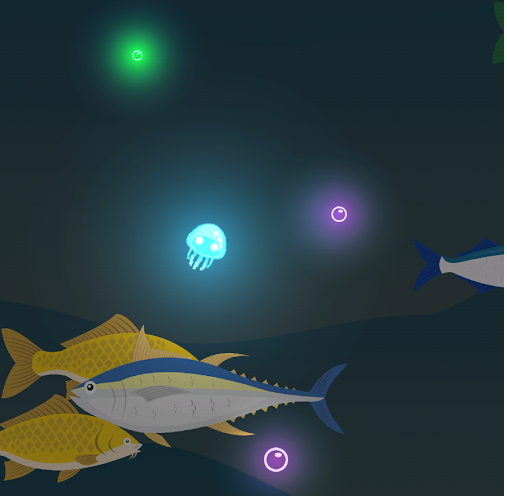
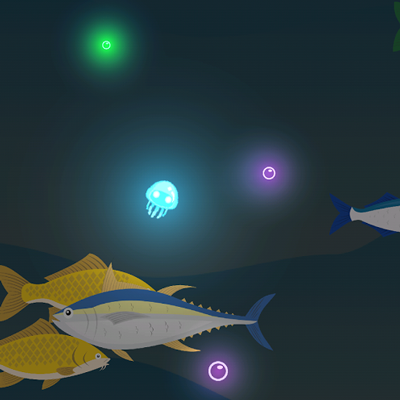
reduced img size

diff --git a/index.html b/index.html
@@ -68,7 +68,7 @@
 	    			
 	    			<div class="row">
 	    				<div class="col l2 m2 s4">
-	    					<img class="responsive-img project-img materialboxed" src="/img/COSMETIQ.PNG">
+	    					<img class="responsive-img project-img materialboxed" src="/img/cosmetiq_m.png">
 		    			</div>
 	    				<div class="col l10 m10 s8">
 	    					<div class="project-heading"><h3>01. COSMETIQ.TV</h3></div>
